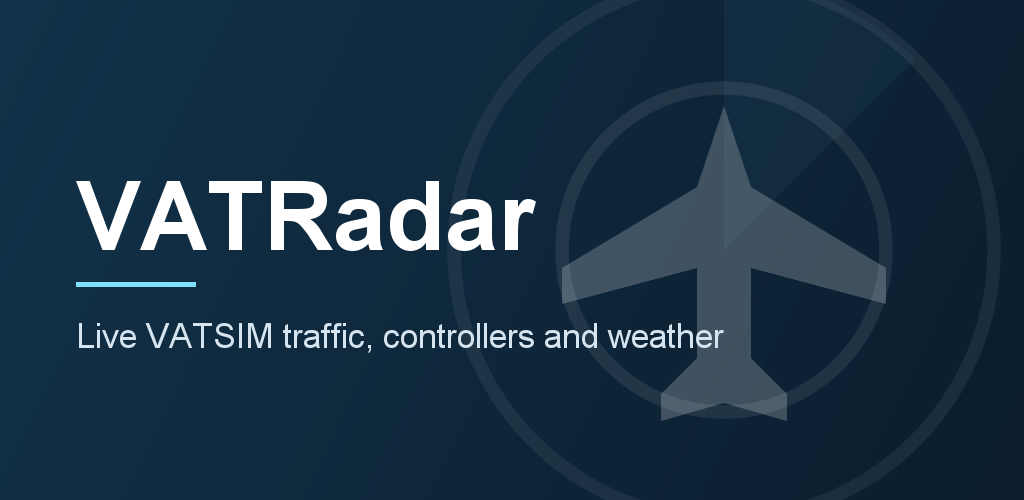
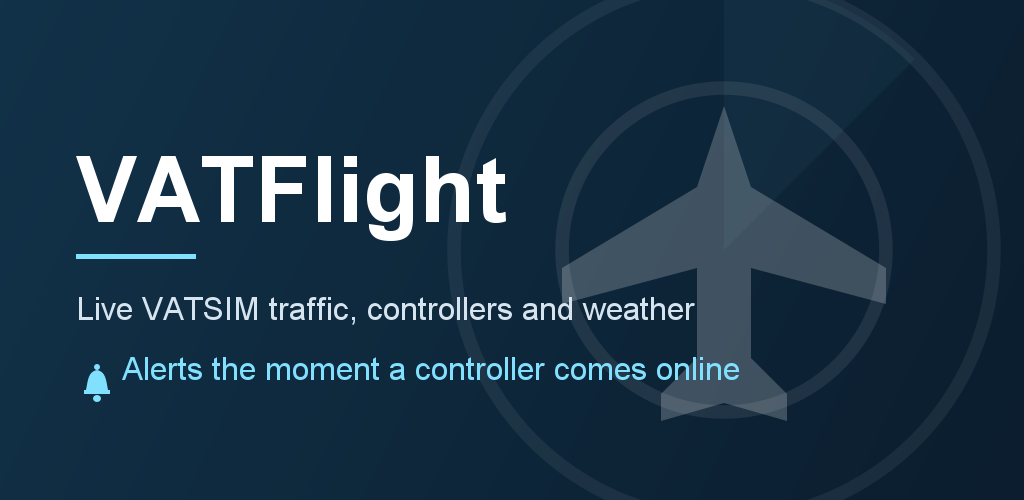
이름을 VATRadar에서 VATFlight으로 바꾸고, 공개 저장소에서 /run을 잠금
이름
- 표시 이름·문구·문서·스토어 그래픽을 전부 VATFlight으로. 5개 언어 모두.
- 클래스도 함께: VatRadarApp, VatRadarMessagingService, VatRadarTheme, VatRadarRoot
- 로그 태그 "VATRadar" -> "VATFlight" (28곳)
- **패키지와 applicationId(com.vatradar.app)는 그대로 뒀습니다.** 바꾸면
  google-services.json을 Firebase 콘솔에서 다시 받아야 하는데 그건 사람이 해야 하고,
  그 전에는 빌드가 "No matching client found for package name"으로 실패합니다.
  Play에 한 번 올리면 영영 못 바꾸므로, 바꾸려면 첫 업로드 전에 해야 합니다.

스토어 그래픽
- 1024x500 피처 그래픽에 알림 문구를 한 줄 추가. 종 모양은 직접 그렸습니다 —
  글꼴 이모지는 환경에 따라 두부가 됩니다.

공개 저장소 점검
- /run 을 RUN_TOKEN 시크릿 뒤로 숨김. 한 번 부르면 피드를 받고 FCM을 보내고 D1에
  쓰기 때문에, 누구나 부를 수 있으면 두들기는 것만으로 무료 한도가 탑니다.
  시크릿이 없으면 403이고, 크론은 이와 무관하게 계속 돕니다.
- README에 열려 있는 엔드포인트와 /logbook?cid= 의 한계를 적어 둠
- workers_dev 설명이 실제 설정과 반대로 적혀 있던 것을 고침

Changed region(s): [[0.0625, 0.3, 0.7188, 0.81]]

diff --git a/app/src/main/java/com/vatradar/app/VatFlightApp.kt b/app/src/main/java/com/vatradar/app/VatFlightApp.kt
@@ -16,7 +16,7 @@ import kotlinx.coroutines.SupervisorJob
 import kotlinx.coroutines.launch
 import kotlinx.coroutines.withContext
 
-class VatRadarApp : Application() {
+class VatFlightApp : Application() {
 
     private val appScope = CoroutineScope(SupervisorJob() + Dispatchers.IO)
 
@@ -28,24 +28,24 @@ class VatRadarApp : Application() {
             // 저장된 언어를 먼저 적용합니다. AppCompat이 프로세스 재시작 후에도
             // 로케일을 복원하지만, 최초 설치 직후 등 비어 있는 경우를 대비합니다.
             runCatching {
-                val tag = ServiceLocator.settingsRepository(this@VatRadarApp).current().languageTag
+                val tag = ServiceLocator.settingsRepository(this@VatFlightApp).current().languageTag
                 if (tag.isNotBlank()) {
                     withContext(Dispatchers.Main) {
                         AppLanguage.apply(AppLanguage.fromTag(tag))
                     }
                 }
-            }.onFailure { Log.w("VATRadar", "언어 적용 실패", it) }
+            }.onFailure { Log.w("VATFlight", "언어 적용 실패", it) }
 
             // 첫 실행에서만 실제 적재가 일어나고, 이후에는 count() 한 번으로 끝납니다.
             runCatching {
-                AirportSeeder.seedIfNeeded(this@VatRadarApp, AppDatabase.get(this@VatRadarApp))
-            }.onFailure { Log.e("VATRadar", "공항 DB 시딩 실패", it) }
+                AirportSeeder.seedIfNeeded(this@VatFlightApp, AppDatabase.get(this@VatFlightApp))
+            }.onFailure { Log.e("VATFlight", "공항 DB 시딩 실패", it) }
 
             // 설정이 켜져 있으면 감시 작업을 복구합니다 (기기 재부팅·앱 업데이트 후 대비).
             runCatching {
-                val settings = ServiceLocator.settingsRepository(this@VatRadarApp).current()
+                val settings = ServiceLocator.settingsRepository(this@VatFlightApp).current()
                 if (settings.notifyEnabled) {
-                    ControllerWatchWorker.enable(this@VatRadarApp)
+                    ControllerWatchWorker.enable(this@VatFlightApp)
                 }
 
                 // 토픽 구독을 매번 다시 걸어줍니다.
@@ -60,7 +60,7 @@ class VatRadarApp : Application() {
                     ServiceLocator.logbookApiService()
                         .register(LogbookRegisterRequest(settings.vatsimCid))
                 }
-            }.onFailure { Log.w("VATRadar", "관제소 감시 복구 실패", it) }
+            }.onFailure { Log.w("VATFlight", "관제소 감시 복구 실패", it) }
         }
     }
 }

diff --git a/server-cloudflare/src/index.js b/server-cloudflare/src/index.js
@@ -1,5 +1,5 @@
 /**
- * VATRadar — 관심 관제소 접속 감지 (Cloudflare Workers)
+ * VATFlight — 관심 관제소 접속 감지 (Cloudflare Workers)
  *
  * 1분마다 VATSIM 데이터 피드를 확인하고, 새로 접속한 관제소를 FCM 토픽으로 푸시합니다.
  * Firebase Cloud Functions와 같은 역할이지만 Cloudflare 무료 플랜에서 돌아갑니다
@@ -86,14 +86,24 @@ export default {
       }
 
       // 배포 직후 동작 확인용 수동 실행.
+      //
+      // 저장소를 공개로 돌리면서 잠갔습니다. 한 번 부르면 VATSIM 피드를 받고 FCM을
+      // 보내고 D1에 씁니다. 누구나 부를 수 있으면 두들기는 것만으로 무료 한도를 태우고
+      // 같은 알림을 반복해서 보낼 수 있습니다. 크론은 이 검사와 무관하게 계속 돕니다.
+      //
+      // 쓰려면:  npx wrangler secret put RUN_TOKEN
+      // 그다음:  curl "https://.../run?token=<값>"
       if (url.pathname === '/run') {
+        if (!env.RUN_TOKEN || url.searchParams.get('token') !== env.RUN_TOKEN) {
+          return Response.json({ error: 'forbidden' }, { status: 403 });
+        }
         return Response.json(await run(env));
       }
     } catch (error) {
       return Response.json({ error: String(error) }, { status: 500 });
     }
 
-    return new Response('VATRadar watcher', { status: 200 });
+    return new Response('VATFlight watcher', { status: 200 });
   },
 };
 
@@ -245,7 +255,7 @@ async function harvestPositions(env, controllers) {
 async function fetchSessionCallsigns(cid) {
   const response = await fetch(
     `https://api.vatsim.net/api/ratings/${encodeURIComponent(cid)}/atcsessions/`,
-    { headers: { 'User-Agent': 'VATRadar/1.0 (position registry)' } }
+    { headers: { 'User-Agent': 'VATFlight/1.0 (position registry)' } }
   );
   if (!response.ok) throw new Error(`응답 오류: ${response.status}`);
   const data = await response.json();
@@ -275,7 +285,7 @@ async function positionsResponse(env) {
 
 async function fetchFeed() {
   const response = await fetch(VATSIM_DATA_URL, {
-    headers: { 'User-Agent': 'VATRadar/1.0 (controller watcher)' },
+    headers: { 'User-Agent': 'VATFlight/1.0 (controller watcher)' },
   });
   if (!response.ok) {
     throw new Error(`VATSIM 피드 응답 오류: ${response.status}`);

diff --git a/app/src/main/java/com/vatradar/app/data/repository/FlightProgressRepository.kt b/app/src/main/java/com/vatradar/app/data/repository/FlightProgressRepository.kt
@@ -41,7 +41,7 @@ class FlightProgressRepository(
         } catch (e: CancellationException) {
             throw e
         } catch (e: Exception) {
-            Log.w("VATRadar", "비행 진행 상황 확인 실패", e)
+            Log.w("VATFlight", "비행 진행 상황 확인 실패", e)
             emptyList()
         }
     }
@@ -57,7 +57,7 @@ class FlightProgressRepository(
             val arrival = airports.find(challenge.destination)
             if (FlightVerifier.hasArrived(me, arrival)) {
                 challenges.markCompleted(challenge)
-                Log.d("VATRadar", "챌린지 완주(도착 관측): ${challenge.origin}→${challenge.destination}")
+                Log.d("VATFlight", "챌린지 완주(도착 관측): ${challenge.origin}→${challenge.destination}")
                 return challenge
             }
             return null
@@ -68,7 +68,7 @@ class FlightProgressRepository(
             val hours = fetchPilotHours(vatsimCid)
             if (FlightVerifier.completedAfterDisconnect(challenge, hours)) {
                 challenges.markCompleted(challenge)
-                Log.d("VATRadar", "챌린지 완주(비행시간 증가): ${challenge.origin}→${challenge.destination}")
+                Log.d("VATFlight", "챌린지 완주(비행시간 증가): ${challenge.origin}→${challenge.destination}")
                 return challenge
             }
         }
@@ -107,7 +107,7 @@ class FlightProgressRepository(
     } catch (e: CancellationException) {
         throw e
     } catch (e: Exception) {
-        Log.w("VATRadar", "비행시간 조회 실패", e)
+        Log.w("VATFlight", "비행시간 조회 실패", e)
         null
     }
 }

diff --git a/app/src/main/java/com/vatradar/app/notification/VatFlightMessagingService.kt b/app/src/main/java/com/vatradar/app/notification/VatFlightMessagingService.kt
@@ -15,12 +15,12 @@ import kotlinx.coroutines.withTimeout
  * 서버(server/functions/index.js)는 다음 형태의 data 메시지를 보냅니다:
  *   { "callsigns": "RKSI_TWR,RJJJ_CTR" }
  */
-class VatRadarMessagingService : FirebaseMessagingService() {
+class VatFlightMessagingService : FirebaseMessagingService() {
 
     override fun onNewToken(token: String) {
         // 서버가 토큰별로 관심 키워드를 관리하려면 여기서 등록 API를 호출합니다.
         // 현재 구현은 토픽 구독 방식이라 별도 업로드가 필요 없습니다.
-        Log.d("VATRadar", "FCM 토큰 갱신됨")
+        Log.d("VATFlight", "FCM 토큰 갱신됨")
     }
 
     override fun onMessageReceived(message: RemoteMessage) {
@@ -32,7 +32,7 @@ class VatRadarMessagingService : FirebaseMessagingService() {
                     withTimeout(PROCESS_TIMEOUT_MS) {
                         ChallengeCompletionHandler.handle(applicationContext, challengeId)
                     }
-                }.onFailure { Log.w("VATRadar", "챌린지 완주 처리 실패", it) }
+                }.onFailure { Log.w("VATFlight", "챌린지 완주 처리 실패", it) }
             }
             return
         }
@@ -50,7 +50,7 @@ class VatRadarMessagingService : FirebaseMessagingService() {
                 withTimeout(PROCESS_TIMEOUT_MS) {
                     ControllerWatcher.notifyFromPush(applicationContext, callsigns)
                 }
-            }.onFailure { Log.w("VATRadar", "푸시 처리 실패", it) }
+            }.onFailure { Log.w("VATFlight", "푸시 처리 실패", it) }
         }
     }
 

diff --git a/app/src/main/java/com/vatradar/app/notification/ControllerWatcher.kt b/app/src/main/java/com/vatradar/app/notification/ControllerWatcher.kt
@@ -23,7 +23,7 @@ object ControllerWatcher {
         if (user.vatsimCid.isNotBlank()) {
             runCatching {
                 ServiceLocator.flightProgressRepository(context).sync(user.vatsimCid)
-            }.onFailure { Log.w("VATRadar", "챌린지 확인 실패", it) }
+            }.onFailure { Log.w("VATFlight", "챌린지 확인 실패", it) }
         }
 
         if (!user.notifyEnabled || user.watchedCallsigns.isEmpty()) return emptyList()
@@ -40,7 +40,7 @@ object ControllerWatcher {
         val newlyOnline = (online - previouslyNotified).sorted()
         if (newlyOnline.isNotEmpty()) {
             Notifications.showControllerOnline(context, newlyOnline)
-            Log.d("VATRadar", "새로 접속한 관제소 알림: ${newlyOnline.joinToString(", ")}")
+            Log.d("VATFlight", "새로 접속한 관제소 알림: ${newlyOnline.joinToString(", ")}")
         }
 
         // 접속 종료된 콜사인은 기록에서 지워 다음 접속 때 다시 알림이 가게 합니다.
@@ -70,7 +70,7 @@ object ControllerWatcher {
 
         Notifications.showControllerOnline(context, fresh)
         settings.setAlreadyNotified(already + fresh)
-        Log.d("VATRadar", "푸시 알림: ${fresh.joinToString(", ")}")
+        Log.d("VATFlight", "푸시 알림: ${fresh.joinToString(", ")}")
     }
 
     /**

diff --git a/app/src/main/java/com/vatradar/app/MainActivity.kt b/app/src/main/java/com/vatradar/app/MainActivity.kt
@@ -38,7 +38,7 @@ import com.vatradar.app.ui.settings.LicensesScreen
 import com.vatradar.app.ui.settings.OssLicensesScreen
 import com.vatradar.app.ui.settings.SettingsScreen
 import com.vatradar.app.ui.theme.ThemeMode
-import com.vatradar.app.ui.theme.VatRadarTheme
+import com.vatradar.app.ui.theme.VatFlightTheme
 
 /**
  * AppCompatActivity를 쓰는 이유는 앱별 언어 설정 때문입니다.
@@ -55,8 +55,8 @@ class MainActivity : AppCompatActivity() {
             val settings by settingsRepository.settings
                 .collectAsStateWithLifecycle(initialValue = UserSettings())
 
-            VatRadarTheme(themeMode = ThemeMode.fromTag(settings.themeMode)) {
-                VatRadarRoot()
+            VatFlightTheme(themeMode = ThemeMode.fromTag(settings.themeMode)) {
+                VatFlightRoot()
             }
         }
     }
@@ -65,7 +65,7 @@ class MainActivity : AppCompatActivity() {
 
 @OptIn(ExperimentalMaterial3Api::class)
 @Composable
-fun VatRadarRoot() {
+fun VatFlightRoot() {
     val navController = rememberNavController()
     val backStackEntry by navController.currentBackStackEntryAsState()
     val currentRoute = backStackEntry?.destination

diff --git a/app/src/main/java/com/vatradar/app/notification/ChallengeCompletionHandler.kt b/app/src/main/java/com/vatradar/app/notification/ChallengeCompletionHandler.kt
@@ -19,7 +19,7 @@ object ChallengeCompletionHandler {
 
         if (completed == null) {
             // 이미 기기 판정으로 처리했거나 만료된 챌린지입니다. 중복 지급을 막습니다.
-            Log.d("VATRadar", "완주 푸시 무시 (해당 챌린지 없음): $challengeId")
+            Log.d("VATFlight", "완주 푸시 무시 (해당 챌린지 없음): $challengeId")
             return
         }
 
@@ -31,6 +31,6 @@ object ChallengeCompletionHandler {
         val cid = ServiceLocator.settingsRepository(context).current().vatsimCid
         challenges.unregisterWatch(cid, challengeId)
 
-        Log.d("VATRadar", "챌린지 완주 처리: ${completed.origin}→${completed.destination}")
+        Log.d("VATFlight", "챌린지 완주 처리: ${completed.origin}→${completed.destination}")
     }
 }

diff --git a/app/src/main/java/com/vatradar/app/ui/settings/OssLicenses.kt b/app/src/main/java/com/vatradar/app/ui/settings/OssLicenses.kt
@@ -32,7 +32,7 @@ object OssLicenses {
                 .useLines { lines -> lines.mapNotNull(::parse).toList() }
                 .distinctBy { it.name }
                 .sortedBy { it.name.lowercase() }
-        }.onFailure { Log.w("VATRadar", "라이선스 목록 읽기 실패", it) }
+        }.onFailure { Log.w("VATFlight", "라이선스 목록 읽기 실패", it) }
             .getOrDefault(emptyList())
     }
 
@@ -42,7 +42,7 @@ object OssLicenses {
                 stream.skipFully(entry.offset.toLong())
                 String(stream.readExactly(entry.length), Charsets.UTF_8).trim()
             }
-        }.onFailure { Log.w("VATRadar", "라이선스 본문 읽기 실패", it) }
+        }.onFailure { Log.w("VATFlight", "라이선스 본문 읽기 실패", it) }
             .getOrDefault("")
     }
 

diff --git a/app/src/main/java/com/vatradar/app/data/repository/ChallengeRepository.kt b/app/src/main/java/com/vatradar/app/data/repository/ChallengeRepository.kt
@@ -40,13 +40,13 @@ class ChallengeRepository(
                     baselineHours = baselineHours
                 )
             )
-        }.onFailure { Log.w("VATRadar", "완주 감시 등록 실패 (기기 판정으로 계속)", it) }
+        }.onFailure { Log.w("VATFlight", "완주 감시 등록 실패 (기기 판정으로 계속)", it) }
     }
 
     suspend fun unregisterWatch(cid: String, challengeId: Long) {
         if (cid.isBlank()) return
         runCatching { watchApi.unregister(UnwatchRequest(cid.trim(), challengeId)) }
-            .onFailure { Log.w("VATRadar", "완주 감시 해제 실패", it) }
+            .onFailure { Log.w("VATFlight", "완주 감시 해제 실패", it) }
     }
 
     val completedCount: Flow<Int> = dao.completedCount()

diff --git a/app/src/main/java/com/vatradar/app/ui/myflights/MyFlightsViewModel.kt b/app/src/main/java/com/vatradar/app/ui/myflights/MyFlightsViewModel.kt
@@ -48,7 +48,7 @@ class MyFlightsViewModel(app: Application) : AndroidViewModel(app) {
             _uiState.value = _uiState.value.copy(loading = true)
 
             val response = runCatching { logbookApi.fetch(cid) }
-                .onFailure { Log.w("VATRadar", "비행 기록 조회 실패", it) }
+                .onFailure { Log.w("VATFlight", "비행 기록 조회 실패", it) }
                 .getOrNull()
                 ?.takeIf { it.isSuccessful }
                 ?.body()

diff --git a/app/src/main/java/com/vatradar/app/data/local/CountryShapeStore.kt b/app/src/main/java/com/vatradar/app/data/local/CountryShapeStore.kt
@@ -22,7 +22,7 @@ object CountryShapeStore {
     suspend fun shapes(context: Context): Map<String, List<List<LatLng>>> =
         cache ?: withContext(Dispatchers.IO) {
             val loaded = runCatching { load(context) }
-                .onFailure { Log.w("VATRadar", "나라 경계 적재 실패", it) }
+                .onFailure { Log.w("VATFlight", "나라 경계 적재 실패", it) }
                 .getOrDefault(emptyMap())
             cache = loaded
             loaded

diff --git a/app/src/main/java/com/vatradar/app/data/local/ControllerCatalog.kt b/app/src/main/java/com/vatradar/app/data/local/ControllerCatalog.kt
@@ -36,7 +36,7 @@ object ControllerCatalog {
         icaoPrefixToCountry: Map<String, String>
     ): List<CenterEntry> = cache ?: withContext(Dispatchers.IO) {
         val loaded = runCatching { load(context, icaoPrefixToCountry) }
-            .onFailure { Log.w("VATRadar", "관제소 목록 적재 실패", it) }
+            .onFailure { Log.w("VATFlight", "관제소 목록 적재 실패", it) }
             .getOrDefault(emptyList())
         cache = loaded
         loaded
